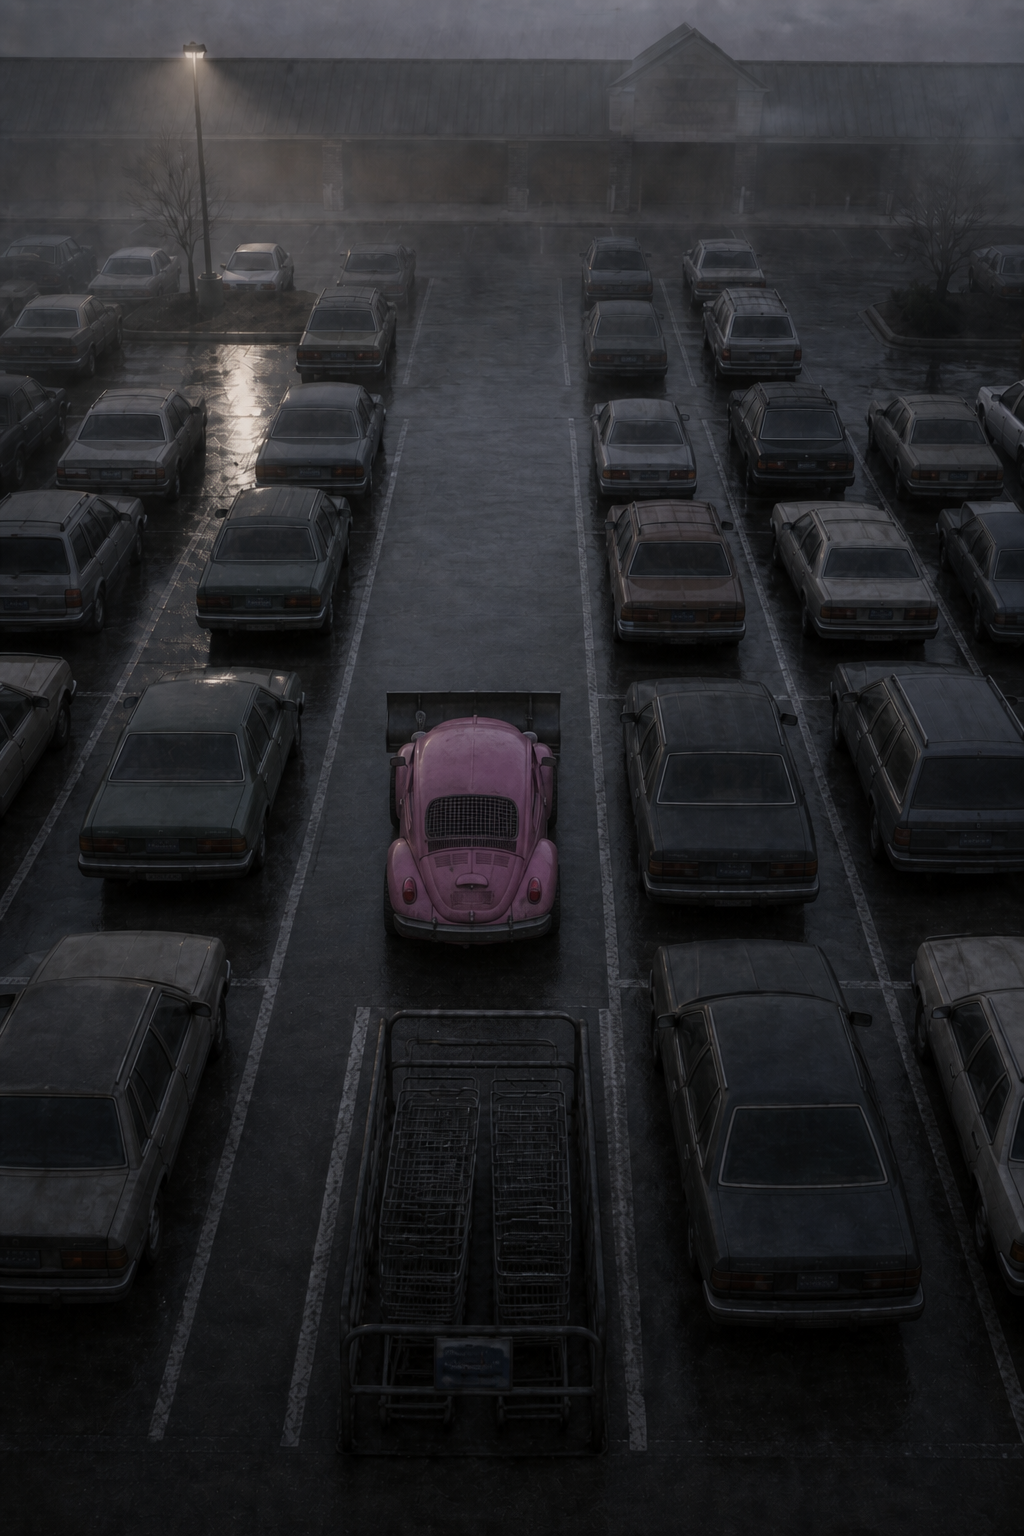
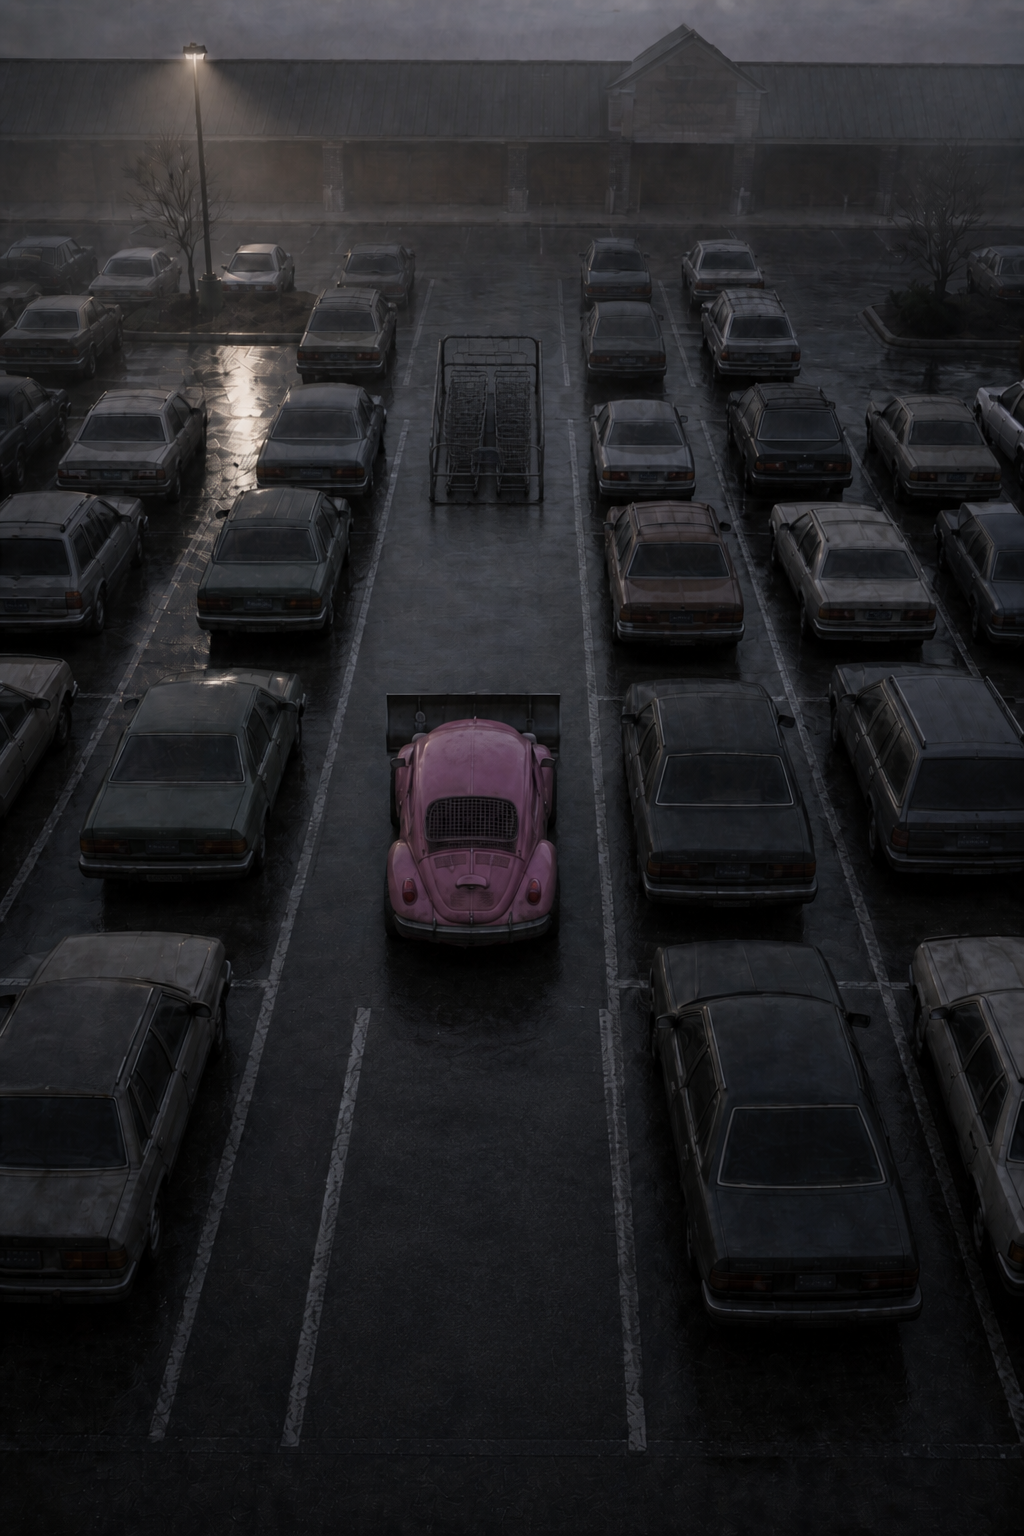
Put the II-021 corral in front of the Menace, not behind the tail.
The return sits ahead of the plow; the aisle behind the mesh is empty.

diff --git a/src/game.js b/src/game.js
@@ -150,7 +150,7 @@ function sceneFragment(scene) {
 }
 
 function imageUrl(cardId) {
-  return "/api/run/image/" + encodeURIComponent(cardId) + "?v=a17";
+  return "/api/run/image/" + encodeURIComponent(cardId) + "?v=a18";
 }
 
 function cargoFrom(state) {
